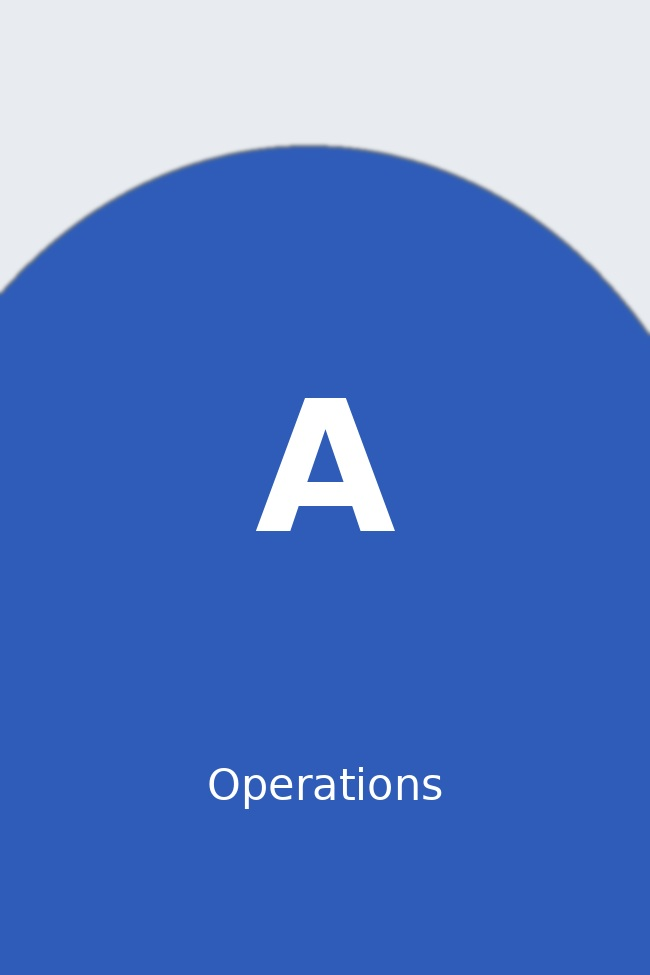
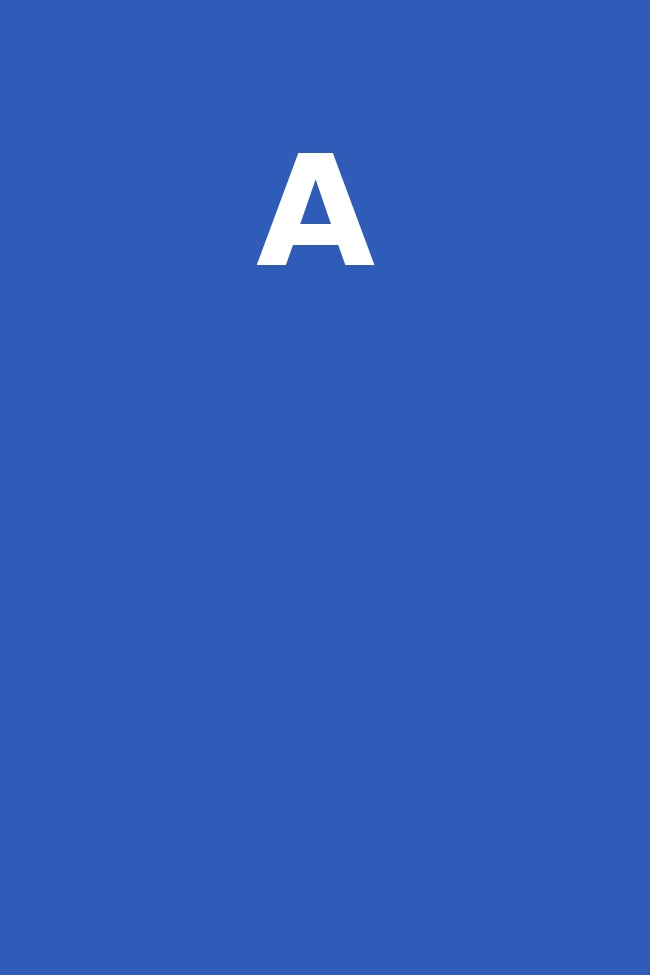
Fix slide 13 initials so they sit in the photo ovals
Canva crops those frames like headshots, so centered letters were
cut off. Place A/K/M/S in the visible fillRect of each tile.

Changed region(s): [[0.0, 0.0, 1.0, 0.3385], [0.4, 0.4, 0.6154, 0.5538], [0.3077, 0.7692, 0.6769, 0.8308]]

diff --git a/docs/pitch/build_deck.py b/docs/pitch/build_deck.py
@@ -80,26 +80,33 @@ def two_up(top: Path, bottom: Path, size: tuple[int, int]) -> Image.Image:
     return canvas.convert("RGB")
 
 
-def team_card(initial: str, role: str, size: tuple[int, int], hue: tuple[int, int, int]) -> Image.Image:
+def team_card(initial: str, role: str, size: tuple[int, int], hue: tuple[int, int, int], fill_rect: tuple[float, float, float, float] | None = None) -> Image.Image:
+    """Letter sits in the visible oval crop (Canva fillRect), not the geometric image center."""
     w, h = size
-    im = Image.new("RGB", (w, h), (232, 236, 241))
+    im = Image.new("RGB", (w, h), hue)
     draw = ImageDraw.Draw(im)
-    blob = Image.new("RGBA", (w, h), (0, 0, 0, 0))
-    bd = ImageDraw.Draw(blob)
-    bd.ellipse((-int(w * 0.2), int(h * 0.15), int(w * 1.15), int(h * 1.2)), fill=hue + (255,))
-    blob = blob.filter(ImageFilter.GaussianBlur(2))
-    im = im.convert("RGBA")
-    im.alpha_composite(blob)
-    im = im.convert("RGB")
-    draw = ImageDraw.Draw(im)
-    f = font(int(min(w, h) * 0.28))
+    if fill_rect is None:
+        cx, cy = w / 2, h / 2
+        vis_w, vis_h = w, h
+    else:
+        left, top, right, bottom = fill_rect
+        img_x0, img_x1 = left, 100.0 - right
+        img_y0, img_y1 = top, 100.0 - bottom
+        span_x = img_x1 - img_x0
+        span_y = img_y1 - img_y0
+        vis_l = (0.0 - img_x0) / span_x
+        vis_r = (100.0 - img_x0) / span_x
+        vis_t = (0.0 - img_y0) / span_y
+        vis_b = (100.0 - img_y0) / span_y
+        cx = ((vis_l + vis_r) / 2) * w
+        cy = ((vis_t + vis_b) / 2) * h
+        vis_w = (vis_r - vis_l) * w
+        vis_h = (vis_b - vis_t) * h
+    f = font(max(48, int(min(vis_w, vis_h) * 0.52)))
     bbox = draw.textbbox((0, 0), initial, font=f)
     tw, th = bbox[2] - bbox[0], bbox[3] - bbox[1]
-    draw.text(((w - tw) / 2, (h - th) / 2 - h * 0.06), initial, font=f, fill=WHITE)
-    rf = font(max(18, int(h * 0.045)), bold=False)
-    rb = draw.textbbox((0, 0), role, font=rf)
-    rw = rb[2] - rb[0]
-    draw.text(((w - rw) / 2, h * 0.78), role, font=rf, fill=WHITE)
+    # textbbox origin is not (0,0); offset by bbox min
+    draw.text((cx - tw / 2 - bbox[0], cy - th / 2 - bbox[1]), initial, font=f, fill=WHITE)
     return im
 
 
@@ -164,14 +171,15 @@ def build_assets() -> dict[str, Path]:
     pie_chart((1300, 1284)).save(paths["pie"], quality=95)
 
     portraits = {
-        "atharva": ("A", "Operations", (46, 92, 184), (650, 975)),
-        "kshitij": ("K", "Procurement", (90, 142, 232), (650, 975)),
-        "manas": ("M", "Finance", (66, 80, 110), (650, 434)),
-        "sahil": ("S", "Support", (82, 140, 168), (650, 434)),
+        # fillRect l,t,r,b as percents from the Canva oval crop on slide 13
+        "atharva": ("A", "Operations", (46, 92, 184), (650, 975), (-31.470, -20.109, -36.275, -207.199)),
+        "kshitij": ("K", "Procurement", (90, 142, 232), (650, 975), (-33.071, -44.787, -26.396, -166.369)),
+        "manas": ("M", "Finance", (66, 80, 110), (650, 434), (-34.811, 0.0, -30.352, -43.272)),
+        "sahil": ("S", "Support", (82, 140, 168), (650, 434), (-71.203, -9.014, -65.028, -95.591)),
     }
-    for key, (initial, role, hue, size) in portraits.items():
+    for key, (initial, role, hue, size, fill_rect) in portraits.items():
         dest = ASSETS / f"team_{key}.jpg"
-        team_card(initial, role, size, hue).save(dest, quality=94)
+        team_card(initial, role, size, hue, fill_rect).save(dest, quality=94)
         paths[key] = dest
     return paths
 
